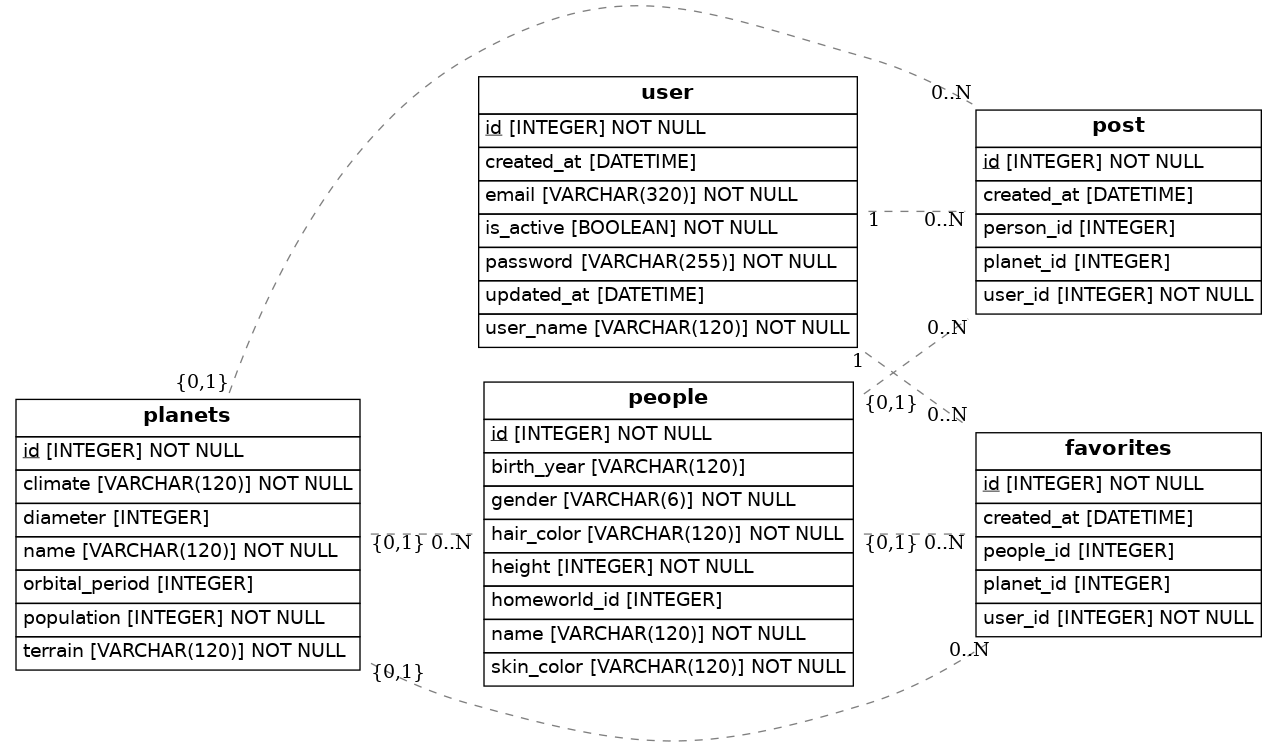
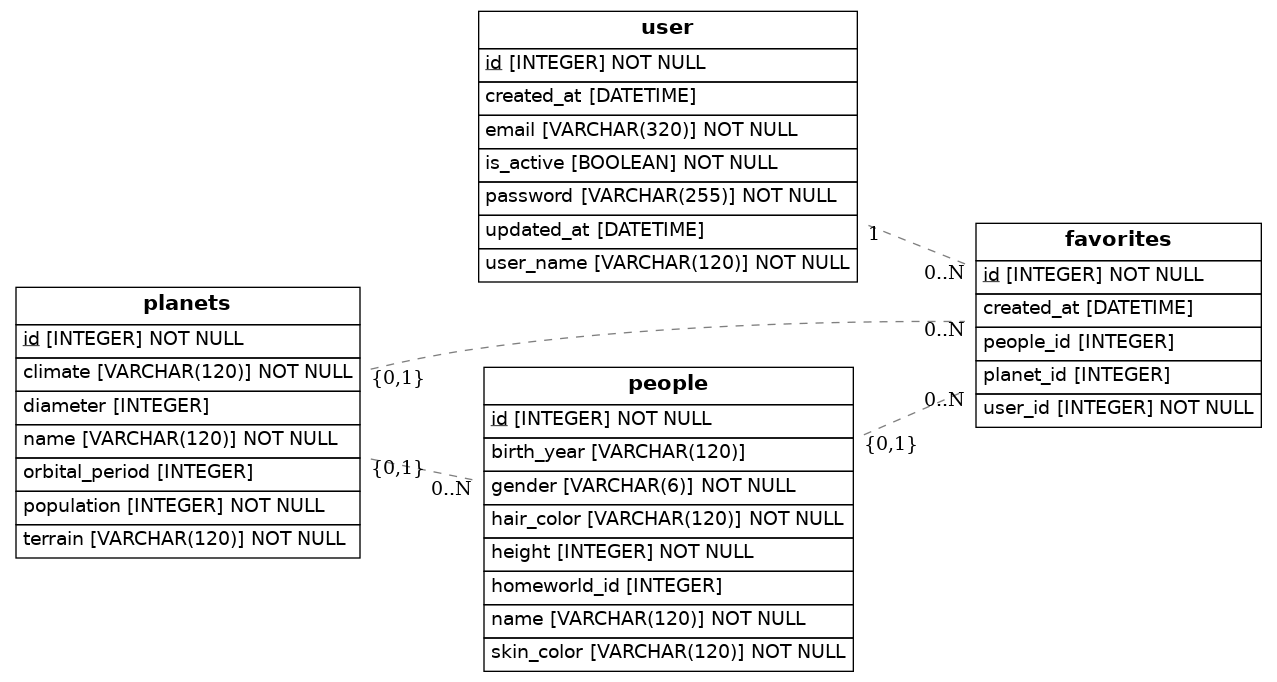
correction of models

diff --git a/src/models.py b/src/models.py
@@ -71,7 +71,7 @@ class People(Base):
     id = Column(Integer, primary_key=True, autoincrement=True)
     name = Column(String(120), nullable=False)
     gender = Column(Enum('male', 'female', 'n/a', name="gender_enum"), nullable=False)
-    height = Column(Integer, unique=False, nullable=False)
+    height = Column(Integer, nullable=False)
     hair_color = Column(String(120), nullable=False)
     skin_color = Column(String(120), nullable=False)
     birth_year = Column(String(120), nullable=True)
@@ -90,27 +90,6 @@ class People(Base):
             "skin_color": self.skin_color,
             "homeworld": self.planet.serialize() if self.planet else None,
         }
-class Post(Base):
-    __tablename__ = 'post'
-    id = Column(Integer, primary_key=True, autoincrement=True)
-    user_id = Column(Integer, ForeignKey('user.id'), nullable=False)
-    planet_id = Column(Integer, ForeignKey('planets.id'), nullable=True)
-    person_id = Column(Integer, ForeignKey('people.id'), nullable=True)
-    created_at = Column(DateTime, default=func.now())
-
-    user = relationship('User', back_populates='posts')
-    planet = relationship('Planets', back_populates='posts')
-    person = relationship('People', back_populates='posts')
-
-    def serialize(self):
-        return {
-            "id": self.id,
-            "user_id": self.user_id,
-            "planet": self.planet.name if self.planet else None,
-            "person": self.person.name if self.person else None,
-            "created_at": self.created_at.isoformat() if self.created_at else None,
-        }
-
 class Favorites(Base):
     __tablename__ = 'favorites'
     id = Column(Integer, primary_key=True)
